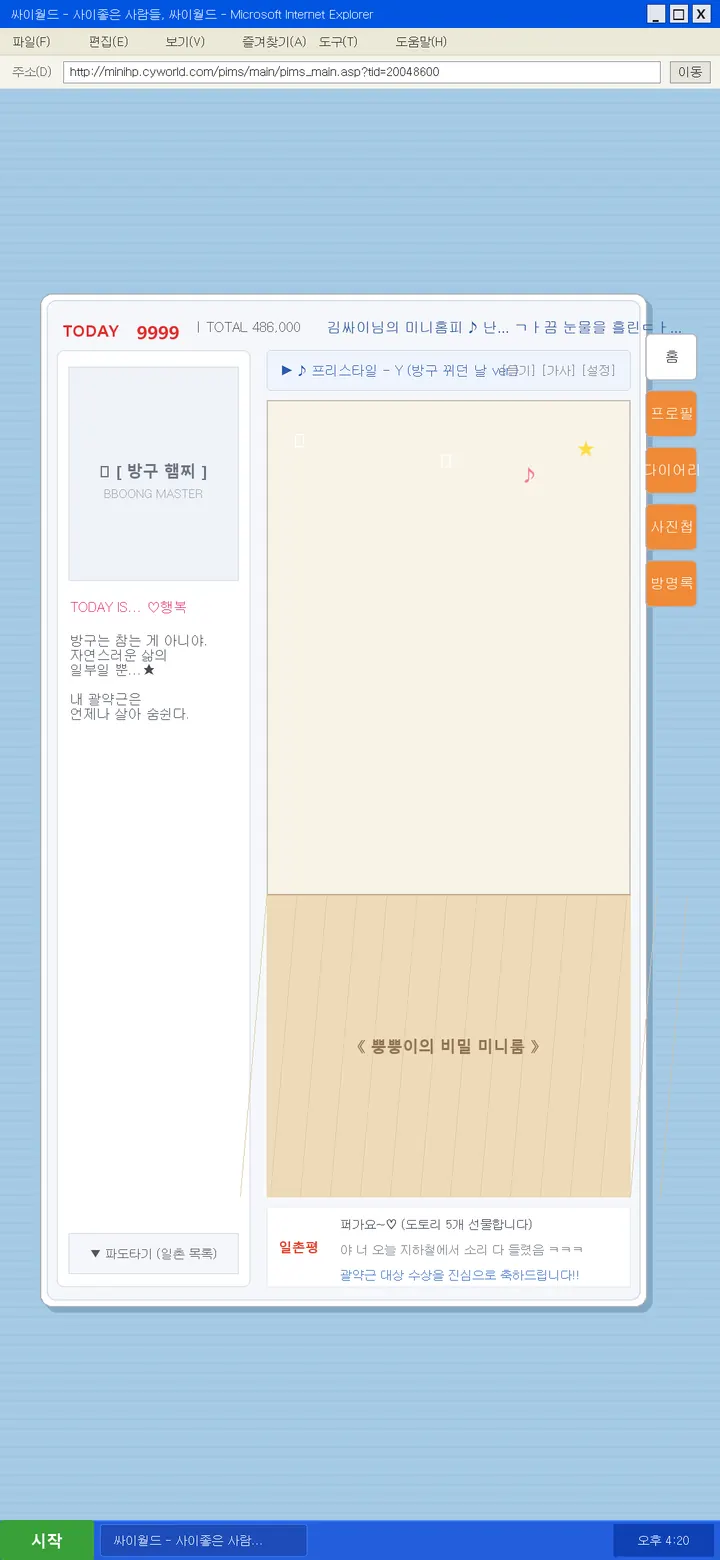
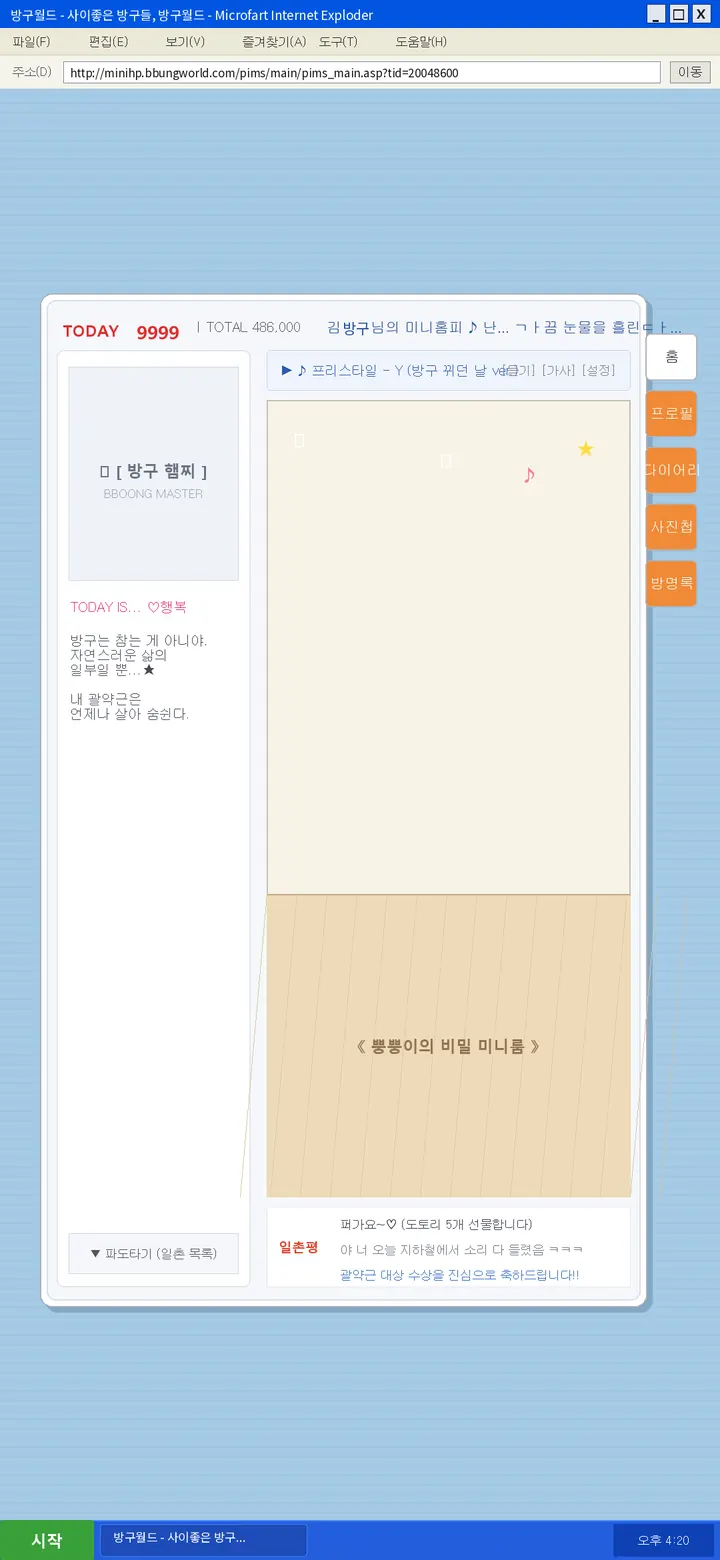
Rebrand minihompy/error backgrounds: 방구월드, Fartdow
Real trademarks (Cyworld, Windows, Internet Explorer) painted over with parody text.

Claude-Session: https://claude.ai/code/session_01WCGxR6MfEeZ8fghXDkWdRg

Changed region(s): [[0.0, 0.0, 0.6417, 0.0615], [0.1528, 0.9846, 0.3667, 1.0], [0.4889, 0.1846, 0.5194, 0.2154]]

diff --git a/src/items.js b/src/items.js
@@ -45,7 +45,7 @@ const BG = [
   { id: 'bg_toilet', name: { ko: '화장실 칸', en: 'Toilet stall' }, price: 60, css: photo('bg_toilet') },
   { id: 'bg_wedding', name: { ko: '결혼식장', en: 'Wedding hall' }, title: 'jp_the', css: photo('bg_wedding') },
   { id: 'bg_chicken', name: { ko: '새벽 치킨', en: '2AM chicken' }, title: 'overeat', price: 80, dark: true, css: photo('bg_chicken', true) },
-  { id: 'bg_minihompy', name: { ko: '2000년대 미니홈피', en: '2000s homepage' }, price: 100, css: photo('bg_minihompy') },
+  { id: 'bg_minihompy', name: { ko: '방구월드 미니홈피', en: 'Fartworld homepage' }, price: 100, css: photo('bg_minihompy') },
   { id: 'bg_error', name: { ko: '엉덩이.exe 오류', en: 'butt.exe error' }, title: 'broke', price: 90, dark: true, css: photo('bg_error', true) },
   { id: 'bg_vapor', name: { ko: '베이퍼웨이브', en: 'Vaporwave' }, price: 150, dark: true, css: photo('bg_vapor', true) },
   { id: 'bg_space', name: { ko: '우주 (방구 추진)', en: 'Space (toot-powered)' }, title: 'jp_heritage', dark: true, css: photo('bg_space', true) },

diff --git a/tools/rebrand_backgrounds.py b/tools/rebrand_backgrounds.py
@@ -1,0 +1,19 @@
+# bg_minihompy / bg_error 원본의 실제 상표 글자(싸이월드, Windows, IE)를 방구월드 · Fartdow 로 덮어쓴다.
+# 사용: python3 tools/rebrand_backgrounds.py (원본 skin2/assets/skin/bg, Noto Sans KR kr400.ttf 가 현재 폴더에 있어야 함)
+from PIL import Image, ImageDraw, ImageFont
+S='skin2/assets/skin/bg/'; O='rebrand/'
+kr=lambda s,w=400: ImageFont.truetype(f'kr{w}.ttf', s)
+def put(d, box, bg, xy, text, font, fill, anchor='lm'):
+    d.rectangle(box, fill=bg); d.text(xy, text, font=font, fill=fill, anchor=anchor)
+
+im=Image.open(S+'bg_minihompy.png').convert('RGBA'); d=ImageDraw.Draw(im)
+put(d,(8,0,960,40),(0,85,225),(16,21),'방구월드 - 사이좋은 방구들, 방구월드 - Microfart Internet Exploder',kr(19),(255,255,255))
+put(d,(100,96,985,121),(255,255,255),(105,108),'http://minihp.bbungworld.com/pims/main/pims_main.asp?tid=20048600',kr(17),(20,20,20))
+put(d,(156,2287,455,2318),(30,75,185),(170,2305),'방구월드 - 사이좋은 방구...',kr(18),(255,255,255))
+put(d,(511,478,554,504),(245,247,250),(514,491),'방구',kr(22),(35,80,155))
+im.save(O+'bg_minihompy.png')
+
+im=Image.open(S+'bg_error.png').convert('RGBA'); d=ImageDraw.Draw(im)
+mono=ImageFont.truetype('/usr/share/fonts/truetype/dejavu/DejaVuSansMono.ttf',23)
+put(d,(425,95,656,136),(192,192,192),(540,114),'Fartdow',mono,(0,0,170),'mm')
+im.save(O+'bg_error.png')

diff --git a/docs/skins/REORDER.md b/docs/skins/REORDER.md
@@ -56,6 +56,7 @@
 - 소품: `prop_gasmask` `prop_extinguisher` `prop_spray` (아래쪽 흰 점 몇 개 남았지만 쓸 만함) `prop_bok`
 - 배경: `bg_subway` `bg_minihompy` `bg_error`
   - 메모: `bg_minihompy` 창 제목의 "싸이월드", `bg_error` 의 "Windows" 글자는 실제 상표라 스토어 출시 전엔 지우거나 바꾸는 게 안전
+  - → 처리함: 방구월드 / Microfart Internet Exploder / bbungworld.com, Fartdow (`tools/rebrand_backgrounds.py`)
 
 ## 불량 → 다시 (11)
 | 파일 | 문제 |
